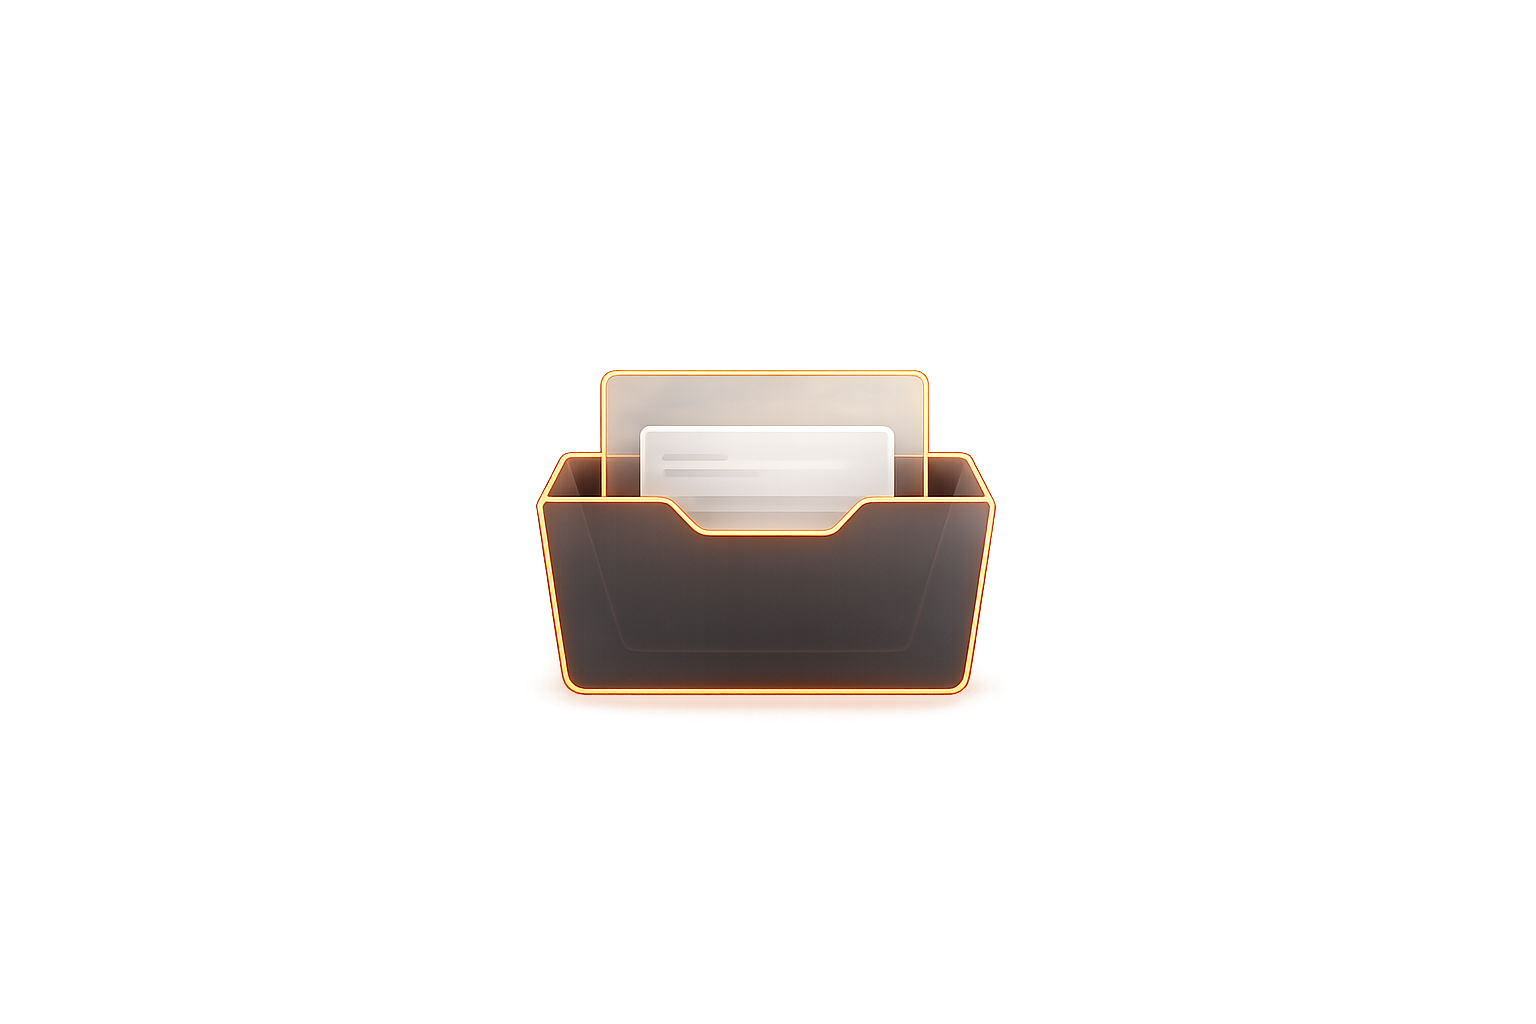
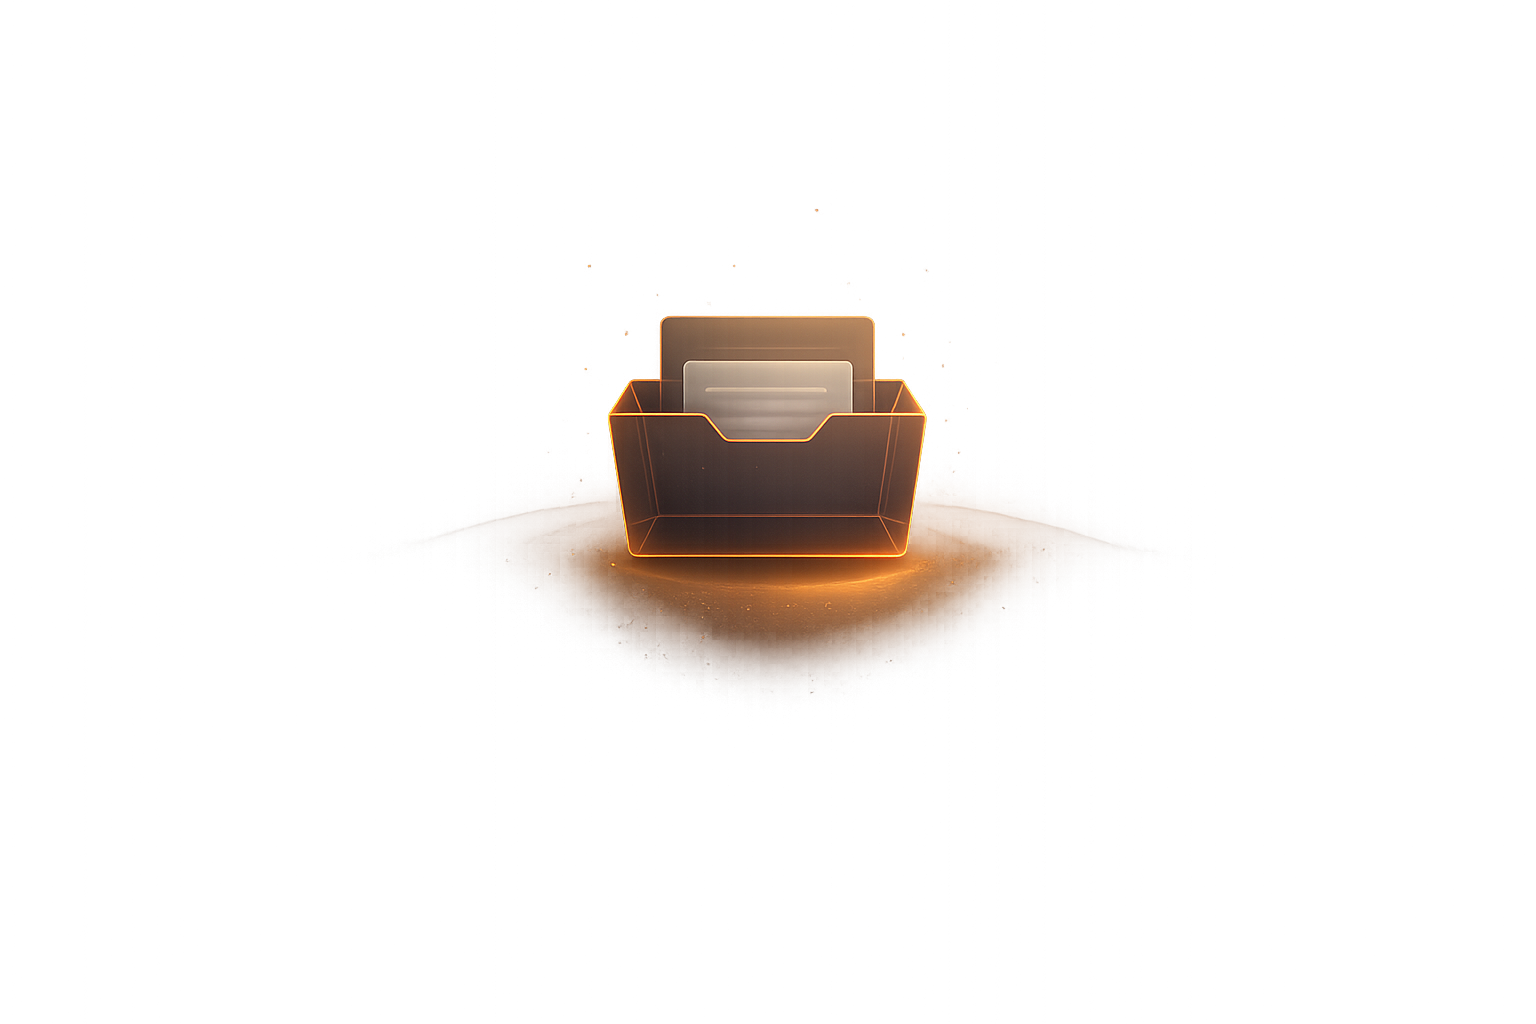
Revert to clean client cards, cinematic hover FX, glowing folder empty state
- Remove folder tree entirely — back to animated client cards
- Cards: lift + glow sweep on hover, orange status bar, initials avatar, staggered fade-in
- Delete button fades in on hover only (no clutter at rest)
- Empty state: cinematic glowing folder image (orange ambient, float animation), fills vertical space
- Flow: Clients page → click card → /clients/[name] projects page

Changed region(s): [[0.3438, 0.2812, 0.7188, 0.7188]]

diff --git a/app/dashboard/page.tsx b/app/dashboard/page.tsx
@@ -479,9 +479,7 @@ function AvatarMenu({ initials, userEmail, logout, lightMode }: { initials: stri
 
 // ── PROJECTS ──────────────────────────────────────────
 function ProjectsSection({ projects, loading, router, installedCount, deleteClient }: any) {
-  const [expanded, setExpanded]   = useState<Set<string>>(new Set())
-  const [selected, setSelected]   = useState<string | null>(null)
-  const [hovered, setHovered]     = useState<string | null>(null)
+  const [hoveredId, setHoveredId]   = useState<string | null>(null)
   const [confirmDel, setConfirmDel] = useState<string | null>(null)
 
   const clientMap = React.useMemo(() => {
@@ -496,159 +494,115 @@ function ProjectsSection({ projects, loading, router, installedCount, deleteClie
 
   const clientCount = clientMap.size
 
-  function toggleClient(key: string) {
-    setExpanded(prev => { const n = new Set(prev); n.has(key) ? n.delete(key) : n.add(key); return n })
-  }
-
-  // auto-expand all on first load
-  useEffect(() => {
-    if (projects.length > 0) {
-      const keys = new Set<string>()
-      projects.forEach((p: Project) => keys.add((p.homeowner || p.address || p.name || 'Unknown').trim()))
-      setExpanded(keys)
-    }
-  }, [projects.length])
-
   return (
     <div style={{ maxWidth: 900, animation: 'fadeUp .3s ease both' }}>
 
-      {/* ── header ── */}
+      {/* header */}
       <div style={{ display:'flex', alignItems:'center', justifyContent:'space-between', marginBottom:28 }}>
         <div>
-          <h1 style={{ margin:0, fontSize:20, fontWeight:700, letterSpacing:'-0.035em', color:'rgba(255,255,255,0.9)' }}>Projects</h1>
+          <h1 style={{ margin:0, fontSize:20, fontWeight:700, letterSpacing:'-0.035em', color:'rgba(255,255,255,0.9)' }}>Clients</h1>
           <p style={{ margin:'3px 0 0', fontSize:11, color:'rgba(255,255,255,0.22)', letterSpacing:'-0.01em' }}>
             {clientCount} client{clientCount!==1?'s':''} · {projects.length} project{projects.length!==1?'s':''} · {installedCount} installed
           </p>
         </div>
-        <button className="new-btn" onClick={() => router.push('/projects/new')} style={{ background:'linear-gradient(135deg,#F4884A,#df6f28)', border:'none', borderRadius:8, color:'#fff', fontWeight:600, fontSize:11, padding:'7px 14px', cursor:'pointer', display:'flex', alignItems:'center', gap:5, letterSpacing:'-0.01em', boxShadow:'0 0 18px rgba(244,136,74,0.28), 0 2px 8px rgba(0,0,0,0.3), 0 1px 0 rgba(255,255,255,0.1) inset', flexShrink:0 }}>
+        <button className="new-btn" onClick={() => router.push('/projects/new')}
+          style={{ background:'linear-gradient(135deg,#F4884A,#df6f28)', border:'none', borderRadius:8, color:'#fff', fontWeight:600, fontSize:11, padding:'7px 14px', cursor:'pointer', display:'flex', alignItems:'center', gap:5, letterSpacing:'-0.01em', boxShadow:'0 0 18px rgba(244,136,74,0.28), 0 2px 8px rgba(0,0,0,0.3), 0 1px 0 rgba(255,255,255,0.1) inset', flexShrink:0 }}>
           <svg width="11" height="11" viewBox="0 0 24 24" fill="none" stroke="currentColor" strokeWidth="2.5"><path d="M12 5v14M5 12h14"/></svg>
           New client
         </button>
       </div>
 
-      {/* ── loading ── */}
+      {/* loading */}
       {loading && (
         <div style={{ display:'flex', alignItems:'center', gap:10, padding:'20px 0', color:'rgba(255,255,255,0.2)', fontSize:12 }}>
           <div style={{ width:16,height:16,border:'1.5px solid rgba(244,136,74,0.2)',borderTopColor:'#F4884A',borderRadius:'50%',animation:'spin .8s linear infinite',flexShrink:0 }} />
-          Loading projects…
+          Loading…
         </div>
       )}
 
-      {/* ── tree ── */}
+      {/* client cards */}
       {!loading && (
-        <div style={{ display:'flex', flexDirection:'column', gap:2 }}>
+        <div style={{ display:'flex', flexDirection:'column', gap:10 }}>
           {Array.from(clientMap.entries()).map(([key, client], ci) => {
-            const isOpen    = expanded.has(key)
-            const initials  = client.name.split(' ').map((w:string)=>w[0]).slice(0,2).join('').toUpperCase()
+            const isHov    = hoveredId === key
+            const isDel    = confirmDel === key
+            const initials = client.name.split(' ').map((w:string)=>w[0]).slice(0,2).join('').toUpperCase()
             const topStatus = client.projects[0]?.status || 'draft'
-            const isHov     = hovered === key
-            const isDel     = confirmDel === key
+            const statusColor = STATUS_COLOR[topStatus] || '#6b7280'
 
             return (
-              <div key={key} style={{ animation:`fadeUp .25s ease both`, animationDelay:`${ci*.04}s` }}>
+              <div key={key}
+                className="dash-card"
+                onMouseEnter={() => setHoveredId(key)}
+                onMouseLeave={() => setHoveredId(null)}
+                onClick={() => !isDel && router.push(`/clients/${encodeURIComponent(key)}`)}
+                style={{
+                  position: 'relative', overflow: 'hidden',
+                  background: isHov ? 'rgba(255,255,255,0.038)' : 'rgba(255,255,255,0.022)',
+                  border: `1px solid ${isHov ? 'rgba(244,136,74,0.2)' : 'rgba(255,255,255,0.065)'}`,
+                  borderRadius: 14, padding: '16px 18px',
+                  cursor: 'pointer', display: 'flex', alignItems: 'center', gap: 14,
+                  boxShadow: isHov ? '0 0 0 1px rgba(244,136,74,0.08) inset, 0 8px 32px rgba(0,0,0,0.4), 0 0 40px rgba(244,136,74,0.06)' : '0 2px 14px rgba(0,0,0,0.28)',
+                  transform: isHov ? 'translateY(-2px)' : 'translateY(0)',
+                  transition: 'all .22s cubic-bezier(.4,0,.2,1)',
+                  animation: 'fadeUp .3s ease both', animationDelay: `${ci * 0.06}s`,
+                }}>
 
-                {/* ── CLIENT ROW ── */}
-                <div
-                  onMouseEnter={() => setHovered(key)}
-                  onMouseLeave={() => setHovered(null)}
-                  style={{ position:'relative', display:'flex', alignItems:'center', gap:0, borderRadius:10, transition:'background .15s', background: isHov ? 'rgba(255,255,255,0.032)' : 'transparent', cursor:'pointer' }}
-                >
-                  {/* expand chevron */}
-                  <button onClick={() => toggleClient(key)} style={{ width:32, height:36, display:'flex', alignItems:'center', justifyContent:'center', background:'none', border:'none', cursor:'pointer', flexShrink:0, color:'rgba(255,255,255,0.25)', transition:'color .15s', padding:0 }}>
-                    <svg width="9" height="9" viewBox="0 0 24 24" fill="none" stroke="currentColor" strokeWidth="2.2" style={{ transform: isOpen ? 'rotate(90deg)' : 'rotate(0deg)', transition:'transform .2s cubic-bezier(.4,0,.2,1)' }}><path d="M9 18l6-6-6-6"/></svg>
-                  </button>
+                {/* left status bar */}
+                <div style={{ position:'absolute', left:0, top:12, bottom:12, width:3, borderRadius:2, background:statusColor, boxShadow:`0 0 8px ${statusColor}`, opacity: isHov ? 1 : 0.6, transition:'opacity .2s' }} />
 
-                  {/* folder icon */}
-                  <div onClick={() => toggleClient(key)} style={{ width:28, height:28, borderRadius:7, background: isOpen ? 'rgba(244,136,74,0.14)' : 'rgba(255,255,255,0.05)', border:`1px solid ${isOpen ? 'rgba(244,136,74,0.25)' : 'rgba(255,255,255,0.08)'}`, display:'flex', alignItems:'center', justifyContent:'center', flexShrink:0, transition:'all .15s', boxShadow: isOpen ? '0 0 10px rgba(244,136,74,0.12)' : 'none' }}>
-                    <svg width="13" height="13" viewBox="0 0 24 24" fill="none" stroke={isOpen ? '#F4884A' : 'rgba(255,255,255,0.35)'} strokeWidth="1.6" style={{ transition:'stroke .15s' }}>
-                      {isOpen
-                        ? <><path d="M22 19a2 2 0 01-2 2H4a2 2 0 01-2-2V5a2 2 0 012-2h5l2 3h9a2 2 0 012 2z"/><line x1="8" y1="13" x2="16" y2="13" strokeOpacity=".5"/></>
-                        : <path d="M22 19a2 2 0 01-2 2H4a2 2 0 01-2-2V5a2 2 0 012-2h5l2 3h9a2 2 0 012 2z"/>
-                      }
-                    </svg>
-                  </div>
+                {/* initials avatar */}
+                <div style={{
+                  width:44, height:44, borderRadius:11, flexShrink:0, marginLeft:8,
+                  background: isHov ? 'linear-gradient(135deg,rgba(244,136,74,0.28),rgba(244,136,74,0.1))' : 'linear-gradient(135deg,rgba(244,136,74,0.16),rgba(244,136,74,0.05))',
+                  border: `1px solid ${isHov ? 'rgba(244,136,74,0.35)' : 'rgba(244,136,74,0.15)'}`,
+                  display:'flex', alignItems:'center', justifyContent:'center',
+                  fontSize:13, fontWeight:700, color: isHov ? 'rgba(244,136,74,1)' : 'rgba(244,136,74,0.85)',
+                  letterSpacing:'-0.02em', transition:'all .2s',
+                  boxShadow: isHov ? '0 0 18px rgba(244,136,74,0.2)' : 'none',
+                }}>{initials}</div>
 
-                  {/* name + address */}
-                  <div onClick={() => toggleClient(key)} style={{ flex:1, minWidth:0, padding:'0 10px' }}>
-                    <div style={{ fontSize:13, fontWeight:600, color: isOpen ? 'rgba(255,255,255,0.92)' : 'rgba(255,255,255,0.7)', letterSpacing:'-0.02em', whiteSpace:'nowrap', overflow:'hidden', textOverflow:'ellipsis', transition:'color .15s' }}>{client.name}</div>
-                    <div style={{ fontSize:10.5, color:'rgba(255,255,255,0.22)', marginTop:1, whiteSpace:'nowrap', overflow:'hidden', textOverflow:'ellipsis', letterSpacing:'-0.005em' }}>{client.address || 'No address'}</div>
-                  </div>
-
-                  {/* right side — status + count + actions (visible on hover) */}
-                  <div style={{ display:'flex', alignItems:'center', gap:6, flexShrink:0, paddingRight:8, opacity: isHov ? 1 : 0.45, transition:'opacity .15s' }} onClick={e => e.stopPropagation()}>
-                    {isDel ? (
-                      <>
-                        <span style={{ fontSize:10, color:'rgba(255,255,255,0.4)' }}>Delete client?</span>
-                        <button onClick={() => { deleteClient(key); setConfirmDel(null) }} style={{ background:'rgba(239,68,68,0.15)', border:'1px solid rgba(239,68,68,0.3)', color:'#ef4444', borderRadius:5, fontSize:10, fontWeight:600, padding:'2px 8px', cursor:'pointer' }}>Delete</button>
-                        <button onClick={() => setConfirmDel(null)} style={{ background:'rgba(255,255,255,0.05)', border:'1px solid rgba(255,255,255,0.08)', color:'rgba(255,255,255,0.4)', borderRadius:5, fontSize:10, padding:'2px 8px', cursor:'pointer' }}>Cancel</button>
-                      </>
-                    ) : (
-                      <>
-                        <span style={{ fontSize:10, color:'rgba(255,255,255,0.18)', background:'rgba(255,255,255,0.05)', borderRadius:4, padding:'2px 7px', fontWeight:500 }}>{client.projects.length} project{client.projects.length!==1?'s':''}</span>
-                        <div style={{ width:6, height:6, borderRadius:'50%', background:STATUS_COLOR[topStatus]||'#6b7280', boxShadow:`0 0 5px ${STATUS_COLOR[topStatus]||'#6b7280'}`, flexShrink:0 }} />
-                        <button onClick={() => setConfirmDel(key)} style={{ background:'none', border:'none', color:'rgba(255,255,255,0.18)', cursor:'pointer', padding:'2px 4px', borderRadius:5, display:'flex', alignItems:'center', transition:'color .12s' }}
-                          onMouseEnter={e=>(e.currentTarget.style.color='#ef4444')} onMouseLeave={e=>(e.currentTarget.style.color='rgba(255,255,255,0.18)')}>
-                          <svg width="11" height="11" viewBox="0 0 24 24" fill="none" stroke="currentColor" strokeWidth="1.8"><polyline points="3 6 5 6 21 6"/><path d="M19 6l-1 14a2 2 0 01-2 2H8a2 2 0 01-2-2L5 6"/><path d="M10 11v6M14 11v6"/><path d="M9 6V4a1 1 0 011-1h4a1 1 0 011 1v2"/></svg>
-                        </button>
-                      </>
-                    )}
-                  </div>
+                {/* info */}
+                <div style={{ flex:1, minWidth:0 }}>
+                  <div className="card-name" style={{ fontWeight:600, fontSize:14, letterSpacing:'-0.025em', color: isHov ? 'rgba(255,255,255,0.95)' : 'rgba(255,255,255,0.82)', whiteSpace:'nowrap', overflow:'hidden', textOverflow:'ellipsis', transition:'color .18s' }}>{client.name}</div>
+                  <div style={{ color:'rgba(255,255,255,0.28)', fontSize:12, marginTop:3, whiteSpace:'nowrap', overflow:'hidden', textOverflow:'ellipsis', letterSpacing:'-0.01em' }}>{client.address || 'No address on file'}</div>
                 </div>
 
-                {/* ── PROJECT CHILDREN ── */}
-                <div style={{ overflow:'hidden', maxHeight: isOpen ? `${client.projects.length * 56}px` : '0px', transition:'max-height .28s cubic-bezier(.4,0,.2,1), opacity .2s', opacity: isOpen ? 1 : 0 }}>
-                  <div style={{ paddingBottom: isOpen ? 6 : 0 }}>
-                    {client.projects.map((p: Project, pi: number) => {
-                      const projKey  = p.id
-                      const isSel    = selected === projKey
-                      const isProjHov = hovered === projKey
-                      const isLast   = pi === client.projects.length - 1
-
-                      return (
-                        <div key={p.id}
-                          onMouseEnter={() => setHovered(projKey)}
-                          onMouseLeave={() => setHovered(null)}
-                          onClick={() => { setSelected(projKey); router.push(`/projects/${p.id}/map`) }}
-                          style={{ position:'relative', display:'flex', alignItems:'center', marginLeft:14, paddingLeft:18, cursor:'pointer', borderRadius:8, background: isSel ? 'rgba(244,136,74,0.07)' : isProjHov ? 'rgba(255,255,255,0.025)' : 'transparent', transition:'background .12s', boxShadow: isSel ? '0 0 0 1px rgba(244,136,74,0.18) inset, 0 0 14px rgba(244,136,74,0.06)' : 'none' }}>
-
-                          {/* connector line */}
-                          <div style={{ position:'absolute', left:0, top:0, bottom: isLast ? '50%' : 0, width:1, background:'rgba(255,255,255,0.07)' }} />
-                          <div style={{ position:'absolute', left:0, top:'50%', width:14, height:1, background:'rgba(255,255,255,0.07)' }} />
-
-                          {/* active glow indicator */}
-                          {isSel && <div style={{ position:'absolute', left:18, top:'50%', transform:'translateY(-50%)', width:2, height:18, borderRadius:1, background:'#F4884A', boxShadow:'0 0 8px rgba(244,136,74,0.7)' }} />}
-
-                          {/* project icon */}
-                          <div style={{ width:24, height:24, borderRadius:6, background: isSel ? 'rgba(244,136,74,0.15)' : 'rgba(255,255,255,0.04)', border:`1px solid ${isSel ? 'rgba(244,136,74,0.3)' : 'rgba(255,255,255,0.06)'}`, display:'flex', alignItems:'center', justifyContent:'center', flexShrink:0, marginLeft:10, transition:'all .12s' }}>
-                            <svg width="11" height="11" viewBox="0 0 24 24" fill="none" stroke={isSel ? '#F4884A' : 'rgba(255,255,255,0.3)'} strokeWidth="1.7" style={{ transition:'stroke .12s' }}>
-                              <polygon points="3 11 22 2 13 21 11 13 3 11"/>
-                            </svg>
-                          </div>
-
-                          {/* name + meta */}
-                          <div style={{ flex:1, minWidth:0, padding:'9px 10px' }}>
-                            <div style={{ fontSize:12, fontWeight: isSel ? 600 : 500, color: isSel ? 'rgba(255,255,255,0.92)' : 'rgba(255,255,255,0.6)', letterSpacing:'-0.015em', whiteSpace:'nowrap', overflow:'hidden', textOverflow:'ellipsis', transition:'color .12s' }}>{p.name || p.address}</div>
-                            <div style={{ fontSize:10, color:'rgba(255,255,255,0.18)', marginTop:1, letterSpacing:'-0.005em' }}>{p.address}</div>
-                          </div>
-
-                          {/* status + open arrow */}
-                          <div style={{ display:'flex', alignItems:'center', gap:7, flexShrink:0, paddingRight:10, opacity: isProjHov || isSel ? 1 : 0.4, transition:'opacity .12s' }}>
-                            <span style={{ background:STATUS_COLOR[p.status]+'18', color:STATUS_COLOR[p.status], borderRadius:4, fontSize:9, fontWeight:700, padding:'2px 6px', letterSpacing:'0.05em', textTransform:'uppercase' }}>{STATUS_LABEL[p.status]}</span>
-                            <svg width="9" height="9" viewBox="0 0 24 24" fill="none" stroke={isSel ? '#F4884A' : 'rgba(255,255,255,0.25)'} strokeWidth="2" style={{ transition:'stroke .12s' }}><path d="M5 12h14M12 5l7 7-7 7"/></svg>
-                          </div>
-                        </div>
-                      )
-                    })}
-                  </div>
+                {/* right actions */}
+                <div style={{ display:'flex', alignItems:'center', gap:8, flexShrink:0 }} onClick={e => e.stopPropagation()}>
+                  {isDel ? (
+                    <>
+                      <span style={{ fontSize:11, color:'rgba(255,255,255,0.4)' }}>Delete all?</span>
+                      <button onClick={() => { deleteClient(key); setConfirmDel(null) }}
+                        style={{ background:'rgba(239,68,68,0.15)', border:'1px solid rgba(239,68,68,0.35)', color:'#ef4444', borderRadius:6, fontSize:11, fontWeight:600, padding:'3px 10px', cursor:'pointer' }}>Delete</button>
+                      <button onClick={() => setConfirmDel(null)}
+                        style={{ background:'rgba(255,255,255,0.06)', border:'1px solid rgba(255,255,255,0.1)', color:'rgba(255,255,255,0.45)', borderRadius:6, fontSize:11, padding:'3px 10px', cursor:'pointer' }}>Cancel</button>
+                    </>
+                  ) : (
+                    <>
+                      <span style={{ fontSize:10, fontWeight:700, color:statusColor, background:statusColor+'18', borderRadius:5, padding:'2px 7px', letterSpacing:'0.04em', textTransform:'uppercase', opacity: isHov ? 1 : 0.7, transition:'opacity .18s' }}>{STATUS_LABEL[topStatus]}</span>
+                      <span style={{ fontSize:11, color:'rgba(255,255,255,0.2)', background:'rgba(255,255,255,0.05)', borderRadius:5, padding:'2px 8px', fontWeight:500 }}>{client.projects.length} project{client.projects.length!==1?'s':''}</span>
+                      <button onClick={() => setConfirmDel(key)} title="Delete client"
+                        style={{ background:'none', border:'none', color:'rgba(255,255,255,0.15)', cursor:'pointer', padding:'4px 6px', borderRadius:6, display:'flex', alignItems:'center', transition:'color .15s', opacity: isHov ? 1 : 0, transform: isHov ? 'scale(1)' : 'scale(0.8)', transition2:'opacity .18s, transform .18s' } as any}
+                        onMouseEnter={e=>(e.currentTarget.style.color='#ef4444')} onMouseLeave={e=>(e.currentTarget.style.color='rgba(255,255,255,0.15)')}>
+                        <svg width="13" height="13" viewBox="0 0 24 24" fill="none" stroke="currentColor" strokeWidth="1.8"><polyline points="3 6 5 6 21 6"/><path d="M19 6l-1 14a2 2 0 01-2 2H8a2 2 0 01-2-2L5 6"/><path d="M10 11v6M14 11v6"/><path d="M9 6V4a1 1 0 011-1h4a1 1 0 011 1v2"/></svg>
+                      </button>
+                      <span style={{ color:'rgba(255,255,255,0.2)', fontSize:16, opacity: isHov ? 0.7 : 0.3, transition:'opacity .18s, transform .18s', transform: isHov ? 'translateX(2px)' : 'translateX(0)' }}>›</span>
+                    </>
+                  )}
                 </div>
 
+                {/* cinematic hover glow sweep */}
+                {isHov && (
+                  <div style={{ position:'absolute', inset:0, background:'linear-gradient(105deg, transparent 40%, rgba(244,136,74,0.04) 60%, transparent 80%)', pointerEvents:'none', borderRadius:14 }} />
+                )}
               </div>
             )
           })}
         </div>
       )}
 
-      {/* ── empty state ── */}
+      {/* empty state — glowing folder, fills remaining space */}
       {!loading && clientCount === 0 && <EmptyState onNew={() => router.push('/projects/new')} hasClients={false} />}
     </div>
   )
@@ -684,59 +638,45 @@ function QuotesSection({ projects, router, fmt }: any) {
 }
 
 // ── EMPTY STATE ───────────────────────────────────────
-function EmptyState({ onNew, hasClients }: { onNew: () => void; hasClients?: boolean }) {
+function EmptyState({ onNew }: { onNew: () => void; hasClients?: boolean }) {
   return (
     <div style={{
-      marginTop: hasClients ? 72 : 40,
-      marginBottom: 40,
+      flex: 1,
       display: 'flex',
       flexDirection: 'column',
       alignItems: 'center',
+      justifyContent: 'center',
+      paddingTop: 60,
+      paddingBottom: 60,
       animation: 'emptyFadeIn 1s cubic-bezier(.16,1,.3,1) both',
-      animationDelay: hasClients ? '0.1s' : '0.3s',
+      animationDelay: '0.2s',
       position: 'relative',
     }}>
-      {/* separator line — only shown when cards above exist */}
-      {hasClients && (
-        <div style={{ width: '100%', height: 1, background: 'linear-gradient(90deg, transparent, rgba(255,255,255,0.05), transparent)', marginBottom: 72 }} />
-      )}
+      {/* wide floor glow */}
+      <div style={{ position:'absolute', bottom:'30%', left:'50%', transform:'translateX(-50%)', width:560, height:80, borderRadius:'50%', background:'radial-gradient(ellipse, rgba(244,136,74,0.14) 0%, transparent 70%)', filter:'blur(24px)', pointerEvents:'none', animation:'glowPulse 5s ease-in-out infinite' }} />
 
-      {/* ambient glow behind image */}
-      <div style={{ position:'absolute', top:'50%', left:'50%', transform:'translate(-50%, -54%)', width:380, height:280, borderRadius:'50%', background:'radial-gradient(ellipse, rgba(244,136,74,0.09) 0%, transparent 65%)', pointerEvents:'none', animation:'glowPulse 6s ease-in-out infinite' }} />
-
-      {/* floor spotlight */}
-      <div style={{ position:'absolute', top:'calc(50% + 20px)', left:'50%', transform:'translateX(-50%)', width:440, height:60, borderRadius:'50%', background:'radial-gradient(ellipse, rgba(244,136,74,0.18) 0%, transparent 70%)', filter:'blur(14px)', pointerEvents:'none', animation:'glowPulse 5s ease-in-out infinite', animationDelay:'1s' }} />
-
-      {/* folder illustration */}
-      <div style={{ animation:'float 7s ease-in-out infinite', position:'relative', marginBottom: 44 }}>
-        {/* tight floor shadow under image */}
-        <div style={{ position:'absolute', bottom:-16, left:'50%', transform:'translateX(-50%)', width:160, height:20, borderRadius:'50%', background:'radial-gradient(ellipse, rgba(244,136,74,0.3) 0%, transparent 70%)', filter:'blur(8px)' }} />
+      {/* folder — the image already has its own built-in orange glow */}
+      <div style={{ animation:'float 7s ease-in-out infinite', position:'relative', marginBottom:40 }}>
         <img
           src="/empty-folder.png"
-          alt="No projects yet"
+          alt="No clients yet"
           style={{
-            width: 200,
+            width: 240,
             height: 'auto',
             display: 'block',
-            filter: 'drop-shadow(0 0 24px rgba(244,136,74,0.35)) drop-shadow(0 0 6px rgba(244,136,74,0.2))',
           }}
         />
       </div>
 
-      {/* text */}
-      <h2 style={{ margin:'0 0 10px', fontSize:24, fontWeight:700, letterSpacing:'-0.04em', color:'rgba(255,255,255,0.82)', textAlign:'center', lineHeight:1.1 }}>
-        {hasClients ? 'Ready to add more?' : 'No clients yet'}
+      <h2 style={{ margin:'0 0 10px', fontSize:26, fontWeight:700, letterSpacing:'-0.04em', color:'rgba(255,255,255,0.82)', textAlign:'center', lineHeight:1.1 }}>
+        No clients yet
       </h2>
-      <p style={{ margin:'0 0 32px', fontSize:13, color:'rgba(255,255,255,0.22)', textAlign:'center', letterSpacing:'-0.01em', lineHeight:1.7, maxWidth:240 }}>
-        {hasClients
-          ? 'Create a new client and start designing their landscape lighting.'
-          : 'Add your first client to begin designing their lighting system.'}
+      <p style={{ margin:'0 0 34px', fontSize:13, color:'rgba(255,255,255,0.22)', textAlign:'center', letterSpacing:'-0.01em', lineHeight:1.7, maxWidth:220 }}>
+        Add your first client to begin designing their lighting system.
       </p>
 
-      {/* CTA */}
-      <button
-        onClick={onNew}
-        style={{ display:'flex', alignItems:'center', gap:8, padding:'11px 26px', borderRadius:11, background:'linear-gradient(135deg,#F4884A,#d96520)', border:'none', color:'#fff', fontSize:13, fontWeight:600, letterSpacing:'-0.01em', cursor:'pointer', boxShadow:'0 0 28px rgba(244,136,74,0.3), 0 4px 18px rgba(0,0,0,0.4), 0 1px 0 rgba(255,255,255,0.14) inset', transition:'transform .18s cubic-bezier(.22,1,.36,1), box-shadow .18s' }}
+      <button onClick={onNew}
+        style={{ display:'flex', alignItems:'center', gap:8, padding:'12px 28px', borderRadius:11, background:'linear-gradient(135deg,#F4884A,#d96520)', border:'none', color:'#fff', fontSize:13, fontWeight:600, letterSpacing:'-0.01em', cursor:'pointer', boxShadow:'0 0 28px rgba(244,136,74,0.3), 0 4px 18px rgba(0,0,0,0.4), 0 1px 0 rgba(255,255,255,0.14) inset', transition:'transform .18s cubic-bezier(.22,1,.36,1), box-shadow .18s' }}
         onMouseEnter={e => { (e.currentTarget as HTMLElement).style.transform='translateY(-2px) scale(1.02)'; (e.currentTarget as HTMLElement).style.boxShadow='0 0 48px rgba(244,136,74,0.45), 0 8px 28px rgba(0,0,0,0.45), 0 1px 0 rgba(255,255,255,0.18) inset' }}
         onMouseLeave={e => { (e.currentTarget as HTMLElement).style.transform='none'; (e.currentTarget as HTMLElement).style.boxShadow='0 0 28px rgba(244,136,74,0.3), 0 4px 18px rgba(0,0,0,0.4), 0 1px 0 rgba(255,255,255,0.14) inset' }}
       >